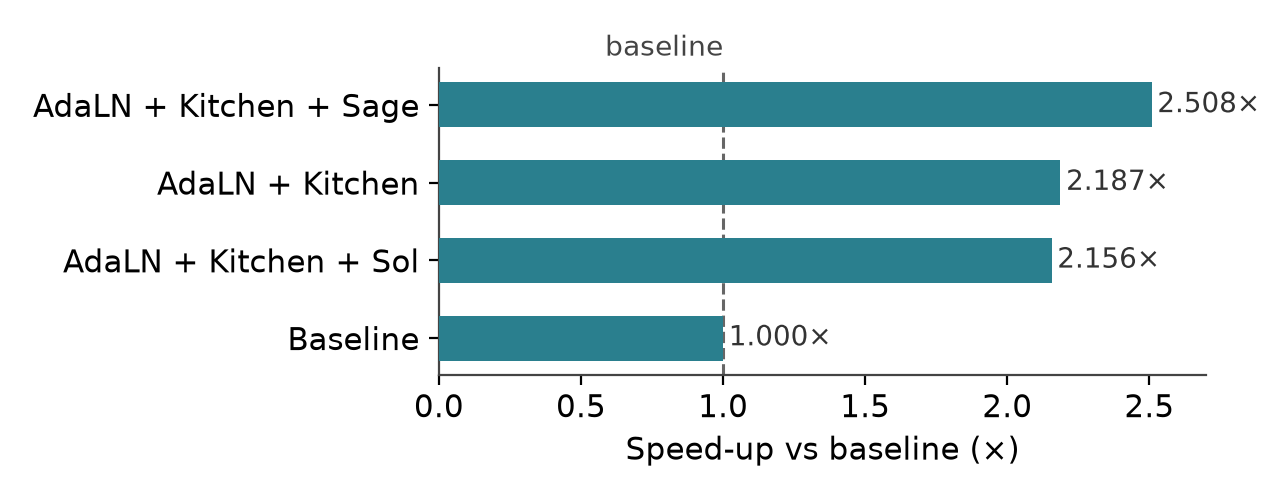
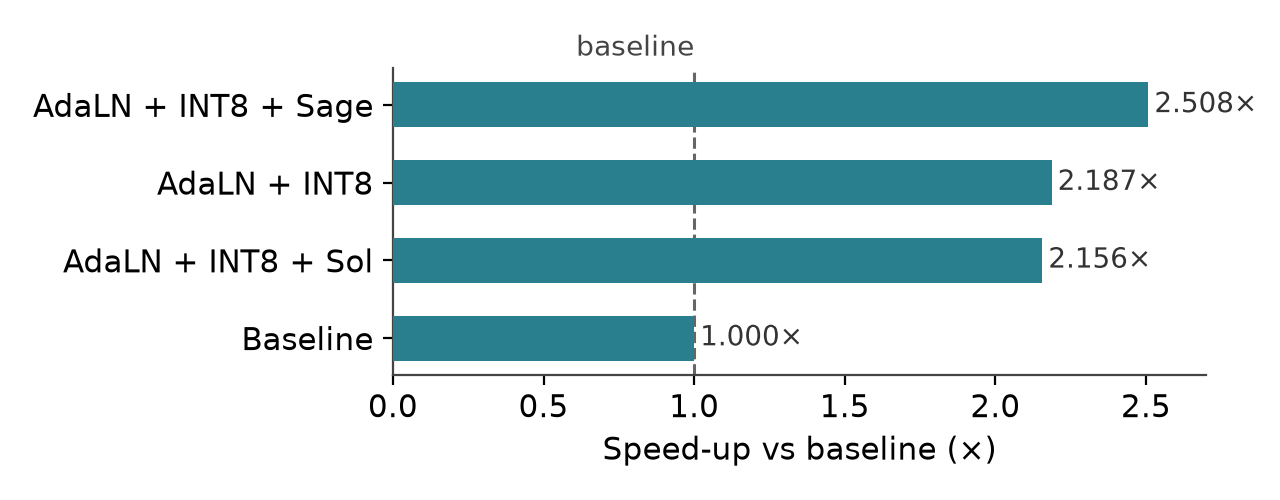
Blog MiniAcc: rename INT8 approach, drop ViDiT-Q mention, correct VBench-2 claim
- 'Kitchen INT8' renamed to 'INT8 via ComfyUI' across prose, tables, charts
  and the pipeline diagram (VLM-verified, no layout regressions)
- ViDiT-Q row, sentence and bibliography entry removed
- Limitations section corrected: we pinned and hash-verified the VBench v1
  scorer; no claim that VBench-2 cannot be verified the same way, only that
  we have not done that work

diff --git a/_posts/2026-09-17-miniacc.html b/_posts/2026-09-17-miniacc.html
@@ -71,7 +71,7 @@ generated_from: "_tex/posts/miniacc.tex"
 <td style="text-align: left;">bitwise-identical outputs</td>
 </tr>
 <tr class="even">
-<td style="text-align: left;">Kitchen INT8</td>
+<td style="text-align: left;">INT8 weights (ComfyUI)</td>
 <td style="text-align: left;">quantization</td>
 <td style="text-align: left;">1.881<span class="math inline">\(\times\)</span></td>
 <td style="text-align: left;">passed; single-run caveat</td>
@@ -83,42 +83,36 @@ generated_from: "_tex/posts/miniacc.tex"
 <td style="text-align: left;">small changes</td>
 </tr>
 <tr class="even">
-<td style="text-align: left;">ViDiT-Q</td>
-<td style="text-align: left;">quantization</td>
-<td style="text-align: left;">—</td>
-<td style="text-align: left;">blocked before admission</td>
-</tr>
-<tr class="odd">
 <td style="text-align: left;">Sol</td>
 <td style="text-align: left;">sparse attention</td>
 <td style="text-align: left;">0.990<span class="math inline">\(\times\)</span></td>
 <td style="text-align: left;">near-neutral; correctness gate failed</td>
 </tr>
-<tr class="even">
+<tr class="odd">
 <td style="text-align: left;">FFN token merge</td>
 <td style="text-align: left;">token reduction</td>
 <td style="text-align: left;">0.993<span class="math inline">\(\times\)</span></td>
 <td style="text-align: left;">severe loss</td>
 </tr>
-<tr class="odd">
+<tr class="even">
 <td style="text-align: left;">Query merge</td>
 <td style="text-align: left;">token reduction</td>
 <td style="text-align: left;">0.995<span class="math inline">\(\times\)</span></td>
 <td style="text-align: left;">severe loss (<span class="math inline">\(-\)</span>24.7 overall)</td>
 </tr>
-<tr class="even">
+<tr class="odd">
 <td style="text-align: left;">Heun</td>
 <td style="text-align: left;">solver</td>
 <td style="text-align: left;">0.994<span class="math inline">\(\times\)</span></td>
 <td style="text-align: left;">severe loss (<span class="math inline">\(-\)</span>28.0 overall)</td>
 </tr>
-<tr class="odd">
+<tr class="even">
 <td style="text-align: left;">Cache-DiT</td>
 <td style="text-align: left;">memory/cache</td>
 <td style="text-align: left;">—</td>
 <td style="text-align: left;">never fit our memory floor</td>
 </tr>
-<tr class="even">
+<tr class="odd">
 <td style="text-align: left;">SageAttention</td>
 <td style="text-align: left;">kernel</td>
 <td style="text-align: left;">0.998<span class="math inline">\(\times\)</span></td>
@@ -127,7 +121,7 @@ generated_from: "_tex/posts/miniacc.tex"
 </tbody>
 </table>
 </div>
-<p>A few of these deserve a sentence each. AdaLN fusion precomputes small per-layer conditioning values once instead of recomputing them on every pass, and it was the cleanest win: the outputs were bit-for-bit identical to baseline while running 37% faster. Kitchen INT8 (from the ComfyUI ecosystem <span class="citation" data-cites="comfyui">(<a href="#ref-comfyui" role="doc-biblioref">comfyanonymous and ComfyOrg contributors 2025</a>)</span>) stores the weights as 8-bit integers, halving the bytes that travel to the GPU, and it nearly doubled the speed. On the other side, both token-reduction methods <span class="citation" data-cites="bolya2023tome">(<a href="#ref-bolya2023tome" role="doc-biblioref">Bolya et al. 2023</a>)</span> and the higher-order solver <span class="citation" data-cites="hairer1993ode">(<a href="#ref-hairer1993ode" role="doc-biblioref">Hairer, Nørsett, and Wanner 1993</a>)</span> destroyed quality, which is what you should expect once you understand the LightX2V box above: the model was distilled for one exact recipe, and these methods change the recipe. ViDiT-Q never made it into the model at all. Its 8-bit building blocks worked in isolation, but the official fused quantiser <span class="citation" data-cites="zhao2025viditq">(<a href="#ref-zhao2025viditq" role="doc-biblioref">Zhao et al. 2025</a>)</span> disagreed with our reference on real inputs and the full integration had too many gaps to admit honestly. Cache-DiT <span class="citation" data-cites="cachedit">(<a href="#ref-cachedit" role="doc-biblioref">Vipshop Cache-DiT contributors 2025</a>)</span> simply never fit in our memory budget.</p>
+<p>A few of these deserve a sentence each. AdaLN fusion precomputes small per-layer conditioning values once instead of recomputing them on every pass, and it was the cleanest win: the outputs were bit-for-bit identical to baseline while running 37% faster. The INT8 weight quantiser from the ComfyUI ecosystem <span class="citation" data-cites="comfyui">(<a href="#ref-comfyui" role="doc-biblioref">comfyanonymous and ComfyOrg contributors 2025</a>)</span> stores the weights as 8-bit integers, halving the bytes that travel to the GPU, and it nearly doubled the speed. On the other side, both token-reduction methods <span class="citation" data-cites="bolya2023tome">(<a href="#ref-bolya2023tome" role="doc-biblioref">Bolya et al. 2023</a>)</span> and the higher-order solver <span class="citation" data-cites="hairer1993ode">(<a href="#ref-hairer1993ode" role="doc-biblioref">Hairer, Nørsett, and Wanner 1993</a>)</span> destroyed quality, which is what you should expect once you understand the LightX2V box above: the model was distilled for one exact recipe, and these methods change the recipe. Cache-DiT <span class="citation" data-cites="cachedit">(<a href="#ref-cachedit" role="doc-biblioref">Vipshop Cache-DiT contributors 2025</a>)</span> simply never fit in our memory budget.</p>
 <details class="takeaway-box" open>
 <summary><span>What is Sol attention?</span><span class="takeaway-toggle" aria-hidden="true"></span></summary>
 <div class="takeaway-content"><p>Sol <span class="citation" data-cites="li2026solattn">(<a href="#ref-li2026solattn" role="doc-biblioref">Li et al. 2026</a>)</span> is a sparse-attention method. Attention normally compares every token with every other token, which is expensive at 37 thousand tokens <span class="citation" data-cites="dao2022flashattention">(<a href="#ref-dao2022flashattention" role="doc-biblioref">Dao et al. 2022</a>)</span>. Sol instead picks a small set of promising token pairs per head and only computes those, in our case about 13.5% of all pairs, then adds a correction term for accuracy. Sparse attention is attractive on paper, but two things went wrong for us: the correction machinery cost more than the pairs it saved, and on real model inputs its numbers failed our correctness checks.</p></div>
@@ -137,7 +131,7 @@ generated_from: "_tex/posts/miniacc.tex"
 <div class="takeaway-content"><p>SageAttention <span class="citation" data-cites="zhang2025sageattention">(<a href="#ref-zhang2025sageattention" role="doc-biblioref">Zhang et al. 2025</a>)</span> keeps the attention pattern dense but does the score computation in 8-bit integer arithmetic instead of 16-bit floating point. Integer math is cheaper per operation, and SageAttention is a proper compiled kernel, not a simulation. On its own in our pipeline it changed nothing measurable, because attention is only about a sixth of the request time.</p></div>
 </details>
 <h2 id="putting-the-winners-together">Putting the winners together</h2>
-<p>The two clear winners attacked different costs. AdaLN removed per-layer conditioning work, and Kitchen halved the weight traffic. Combining them was the natural next step, and it is also where the story gets interesting. Figure <a href="#fig:breakdown" data-reference-type="ref" data-reference="fig:breakdown">2</a> shows what happened to the anatomy of a request.</p>
+<p>The two clear winners attacked different costs. AdaLN removed per-layer conditioning work, and the 8-bit weights halved the weight traffic. Combining them was the natural next step, and it is also where the story gets interesting. Figure <a href="#fig:breakdown" data-reference-type="ref" data-reference="fig:breakdown">2</a> shows what happened to the anatomy of a request.</p>
 <figure id="fig:breakdown">
 <img src="/assets/images/blog/miniacc/chart-time-breakdown.png" />
 <figcaption>Where a request spends its time as the techniques are layered on. The denoising stage shrinks from 257 to 61 seconds; text encoding and decoding are untouched.</figcaption>
@@ -147,7 +141,7 @@ generated_from: "_tex/posts/miniacc.tex"
 <img src="/assets/images/blog/miniacc/chart-integrated.png" />
 <figcaption>The integrated configurations against baseline. The final default includes SageAttention; the Sol variant is shown for completeness.</figcaption>
 </figure>
-<p>Figure <a href="#fig:integrated" data-reference-type="ref" data-reference="fig:integrated">3</a> shows the final speed numbers. AdaLN and Kitchen together give 2.19<span class="math inline">\(\times\)</span>. Adding SageAttention on top reaches 2.51<span class="math inline">\(\times\)</span>, our default configuration. Adding Sol instead gives 2.16<span class="math inline">\(\times\)</span>.</p>
+<p>Figure <a href="#fig:integrated" data-reference-type="ref" data-reference="fig:integrated">3</a> shows the final speed numbers. AdaLN and the INT8 quantiser together give 2.19<span class="math inline">\(\times\)</span>. Adding SageAttention on top reaches 2.51<span class="math inline">\(\times\)</span>, our default configuration. Adding Sol instead gives 2.16<span class="math inline">\(\times\)</span>.</p>
 <figure id="fig:diagram">
 <img src="/assets/images/blog/miniacc/pipeline-diagram.png" />
 <figcaption>The serving pipeline and where each technique acts. The warm lane is the bottleneck: weights are copied from main memory to the GPU on every denoising pass.</figcaption>
@@ -207,7 +201,7 @@ generated_from: "_tex/posts/miniacc.tex"
 <img src="/assets/images/blog/miniacc/chart-quality-deltas.png" />
 <figcaption>The same deltas as a chart. Sage’s damage concentrates in overall consistency and imaging, and it is consistent across clips, not one outlier.</figcaption>
 </figure>
-<p>Sage’s cost is systematic. Overall consistency, which measures whether the video matches the prompt’s meaning, dropped on every eligible clip. Imaging quality, a sharpness-and-artifacts score, dropped on 14 of 16 clips. One plausible explanation is that 8-bit attention stacked on 8-bit weights nudges the distilled model off the trajectory it was trained for, but we have not proven that mechanism. Sol, by contrast, is quality-neutral and simply slower, so there is no reason to adopt it. Our default ships with Sage because the speed matters for our use, and the fidelity-first configuration (AdaLN and Kitchen without Sage) is one flag away for anyone who would rather keep baseline-level quality at 2.19<span class="math inline">\(\times\)</span>.</p>
+<p>Sage’s cost is systematic. Overall consistency, which measures whether the video matches the prompt’s meaning, dropped on every eligible clip. Imaging quality, a sharpness-and-artifacts score, dropped on 14 of 16 clips. One plausible explanation is that 8-bit attention stacked on 8-bit weights nudges the distilled model off the trajectory it was trained for, but we have not proven that mechanism. Sol, by contrast, is quality-neutral and simply slower, so there is no reason to adopt it. Our default ships with Sage because the speed matters for our use, and the fidelity-first configuration (AdaLN and INT8 without Sage) is one flag away for anyone who would rather keep baseline-level quality at 2.19<span class="math inline">\(\times\)</span>.</p>
 <p>Finally, here is what all of this looks like. Both clips use the same prompt, <em>“A person is squat”</em> (VBench prompt 0195, human action), and the same seed.</p>
 <p><strong>Baseline serving:</strong></p>
 <figure>
@@ -220,7 +214,7 @@ generated_from: "_tex/posts/miniacc.tex"
 <figcaption>The integrated pipeline. Same prompt and seed.</figcaption>
 </figure>
 <h2 id="limitations-and-what-we-would-do-next">Limitations and what we would do next</h2>
-<p>There are several honest caveats. Speed numbers come from single requests on one GPU, so treat them as indicative rather than universal. The quality study is solid on its own scale, but 16 clips and 4 overall-consistency clips are still small samples, and the Sage cost would benefit from a bigger sweep before anyone ships this. We assessed video quality only. The audio track is validated for presence and format but never scored, because we know no good paired metric for generated audio. We used the original VBench rather than VBench-2 for a boring but important reason: we could pin and hash-verify every file of the original benchmark’s scorer, which kept the whole evaluation reproducible. VBench-2 scores would not be comparable to ours anyway.</p>
+<p>There are several honest caveats. Speed numbers come from single requests on one GPU, so treat them as indicative rather than universal. The quality study is solid on its own scale, but 16 clips and 4 overall-consistency clips are still small samples, and the Sage cost would benefit from a bigger sweep before anyone ships this. We assessed video quality only. The audio track is validated for presence and format but never scored, because we know no good paired metric for generated audio. For scoring we pinned one specific VBench revision and hash-verified all seven of its scorer files before every run, so the scoring code is bit-for-bit reproducible. We did not run or verify VBench-2, so our numbers are not comparable to it. Nothing in principle stops a future pass from pinning and verifying VBench-2 the same way; we simply have not done that work.</p>
 <p>The most interesting direction is one we could not touch here, because it needs real training compute. Right now the 8-bit pieces are approximations bolted onto a model distilled for 16-bit arithmetic. With post-training resources, one could distil the model <em>into</em> the fast recipe, teaching it to expect 8-bit weights and 8-bit attention rather than tolerate them. That is the standard way to recover the quality cost, and it is also the only honest route we see to making sparse attention competitive: train the sparsity in rather than bolt it on.</p>
 <p>The code for the integrated pipeline, including the measured configurations and the demo clips, is on GitHub at <a href="https://github.com/TY-Yang3015/MiniAcc" target="_blank" rel="noopener noreferrer">TY-Yang3015/MiniAcc</a>.</p>
 <h2 class="unnumbered" id="bibliography">References</h2>
@@ -254,9 +248,6 @@ Vipshop Cache-DiT contributors. 2025. <span>“<span>Cache-DiT</span>: A Trainin
 </div>
 <div id="ref-zhang2025sageattention" class="csl-entry" role="listitem">
 Zhang, Jintao, Jia Wei, Pengle Zhang, Jun Zhu, and Jianfei Chen. 2025. <span>“<span>SageAttention</span>: Accurate 8-Bit Attention for Plug-and-Play Inference Acceleration.”</span> In <em>International Conference on Learning Representations</em>. <a href="https://arxiv.org/abs/2411.09958" target="_blank" rel="noopener noreferrer">https://arxiv.org/abs/2411.09958</a>.
-</div>
-<div id="ref-zhao2025viditq" class="csl-entry" role="listitem">
-Zhao, Tianchen, Tongcheng Fang, Haofeng Huang, Rui Wan, Widyadewi Soedarmadji, Enshu Liu, Shiyao Li, et al. 2025. <span>“<span>ViDiT-Q</span>: Efficient and Accurate Quantization of Diffusion Transformers for Image and Video Generation.”</span> In <em>International Conference on Learning Representations</em>.
 </div>
 <div id="ref-zheng2024sglang" class="csl-entry" role="listitem">
 Zheng, Lianmin, Liangsheng Yin, Zhiqiang Xie, Chuyue Sun, Jeff Huang, Cody Hao Yu, Shiyi Cao, et al. 2024. <span>“<span>SGLang</span>: Efficient Execution of Structured Language Model Programs.”</span> In <em>Advances in Neural Information Processing Systems</em>. <a href="https://arxiv.org/abs/2312.07104" target="_blank" rel="noopener noreferrer">https://arxiv.org/abs/2312.07104</a>.

diff --git a/_site/blog/2026/09/17/miniacc/index.html b/_site/blog/2026/09/17/miniacc/index.html
@@ -190,7 +190,7 @@
 <td style="text-align: left;">bitwise-identical outputs</td>
 </tr>
 <tr class="even">
-<td style="text-align: left;">Kitchen INT8</td>
+<td style="text-align: left;">INT8 weights (ComfyUI)</td>
 <td style="text-align: left;">quantization</td>
 <td style="text-align: left;">1.881<span class="math inline">\(\times\)</span></td>
 <td style="text-align: left;">passed; single-run caveat</td>
@@ -202,42 +202,36 @@
 <td style="text-align: left;">small changes</td>
 </tr>
 <tr class="even">
-<td style="text-align: left;">ViDiT-Q</td>
-<td style="text-align: left;">quantization</td>
-<td style="text-align: left;">—</td>
-<td style="text-align: left;">blocked before admission</td>
-</tr>
-<tr class="odd">
 <td style="text-align: left;">Sol</td>
 <td style="text-align: left;">sparse attention</td>
 <td style="text-align: left;">0.990<span class="math inline">\(\times\)</span></td>
 <td style="text-align: left;">near-neutral; correctness gate failed</td>
 </tr>
-<tr class="even">
+<tr class="odd">
 <td style="text-align: left;">FFN token merge</td>
 <td style="text-align: left;">token reduction</td>
 <td style="text-align: left;">0.993<span class="math inline">\(\times\)</span></td>
 <td style="text-align: left;">severe loss</td>
 </tr>
-<tr class="odd">
+<tr class="even">
 <td style="text-align: left;">Query merge</td>
 <td style="text-align: left;">token reduction</td>
 <td style="text-align: left;">0.995<span class="math inline">\(\times\)</span></td>
 <td style="text-align: left;">severe loss (<span class="math inline">\(-\)</span>24.7 overall)</td>
 </tr>
-<tr class="even">
+<tr class="odd">
 <td style="text-align: left;">Heun</td>
 <td style="text-align: left;">solver</td>
 <td style="text-align: left;">0.994<span class="math inline">\(\times\)</span></td>
 <td style="text-align: left;">severe loss (<span class="math inline">\(-\)</span>28.0 overall)</td>
 </tr>
-<tr class="odd">
+<tr class="even">
 <td style="text-align: left;">Cache-DiT</td>
 <td style="text-align: left;">memory/cache</td>
 <td style="text-align: left;">—</td>
 <td style="text-align: left;">never fit our memory floor</td>
 </tr>
-<tr class="even">
+<tr class="odd">
 <td style="text-align: left;">SageAttention</td>
 <td style="text-align: left;">kernel</td>
 <td style="text-align: left;">0.998<span class="math inline">\(\times\)</span></td>
@@ -246,7 +240,7 @@
 </tbody>
 </table>
 </div>
-<p>A few of these deserve a sentence each. AdaLN fusion precomputes small per-layer conditioning values once instead of recomputing them on every pass, and it was the cleanest win: the outputs were bit-for-bit identical to baseline while running 37% faster. Kitchen INT8 (from the ComfyUI ecosystem <span class="citation" data-cites="comfyui">(<a href="#ref-comfyui" role="doc-biblioref">comfyanonymous and ComfyOrg contributors 2025</a>)</span>) stores the weights as 8-bit integers, halving the bytes that travel to the GPU, and it nearly doubled the speed. On the other side, both token-reduction methods <span class="citation" data-cites="bolya2023tome">(<a href="#ref-bolya2023tome" role="doc-biblioref">Bolya et al. 2023</a>)</span> and the higher-order solver <span class="citation" data-cites="hairer1993ode">(<a href="#ref-hairer1993ode" role="doc-biblioref">Hairer, Nørsett, and Wanner 1993</a>)</span> destroyed quality, which is what you should expect once you understand the LightX2V box above: the model was distilled for one exact recipe, and these methods change the recipe. ViDiT-Q never made it into the model at all. Its 8-bit building blocks worked in isolation, but the official fused quantiser <span class="citation" data-cites="zhao2025viditq">(<a href="#ref-zhao2025viditq" role="doc-biblioref">Zhao et al. 2025</a>)</span> disagreed with our reference on real inputs and the full integration had too many gaps to admit honestly. Cache-DiT <span class="citation" data-cites="cachedit">(<a href="#ref-cachedit" role="doc-biblioref">Vipshop Cache-DiT contributors 2025</a>)</span> simply never fit in our memory budget.</p>
+<p>A few of these deserve a sentence each. AdaLN fusion precomputes small per-layer conditioning values once instead of recomputing them on every pass, and it was the cleanest win: the outputs were bit-for-bit identical to baseline while running 37% faster. The INT8 weight quantiser from the ComfyUI ecosystem <span class="citation" data-cites="comfyui">(<a href="#ref-comfyui" role="doc-biblioref">comfyanonymous and ComfyOrg contributors 2025</a>)</span> stores the weights as 8-bit integers, halving the bytes that travel to the GPU, and it nearly doubled the speed. On the other side, both token-reduction methods <span class="citation" data-cites="bolya2023tome">(<a href="#ref-bolya2023tome" role="doc-biblioref">Bolya et al. 2023</a>)</span> and the higher-order solver <span class="citation" data-cites="hairer1993ode">(<a href="#ref-hairer1993ode" role="doc-biblioref">Hairer, Nørsett, and Wanner 1993</a>)</span> destroyed quality, which is what you should expect once you understand the LightX2V box above: the model was distilled for one exact recipe, and these methods change the recipe. Cache-DiT <span class="citation" data-cites="cachedit">(<a href="#ref-cachedit" role="doc-biblioref">Vipshop Cache-DiT contributors 2025</a>)</span> simply never fit in our memory budget.</p>
 <details class="takeaway-box" open>
 <summary><span>What is Sol attention?</span><span class="takeaway-toggle" aria-hidden="true"></span></summary>
 <div class="takeaway-content"><p>Sol <span class="citation" data-cites="li2026solattn">(<a href="#ref-li2026solattn" role="doc-biblioref">Li et al. 2026</a>)</span> is a sparse-attention method. Attention normally compares every token with every other token, which is expensive at 37 thousand tokens <span class="citation" data-cites="dao2022flashattention">(<a href="#ref-dao2022flashattention" role="doc-biblioref">Dao et al. 2022</a>)</span>. Sol instead picks a small set of promising token pairs per head and only computes those, in our case about 13.5% of all pairs, then adds a correction term for accuracy. Sparse attention is attractive on paper, but two things went wrong for us: the correction machinery cost more than the pairs it saved, and on real model inputs its numbers failed our correctness checks.</p></div>
@@ -256,7 +250,7 @@
 <div class="takeaway-content"><p>SageAttention <span class="citation" data-cites="zhang2025sageattention">(<a href="#ref-zhang2025sageattention" role="doc-biblioref">Zhang et al. 2025</a>)</span> keeps the attention pattern dense but does the score computation in 8-bit integer arithmetic instead of 16-bit floating point. Integer math is cheaper per operation, and SageAttention is a proper compiled kernel, not a simulation. On its own in our pipeline it changed nothing measurable, because attention is only about a sixth of the request time.</p></div>
 </details>
 <h2 id="putting-the-winners-together">Putting the winners together</h2>
-<p>The two clear winners attacked different costs. AdaLN removed per-layer conditioning work, and Kitchen halved the weight traffic. Combining them was the natural next step, and it is also where the story gets interesting. Figure <a href="#fig:breakdown" data-reference-type="ref" data-reference="fig:breakdown">2</a> shows what happened to the anatomy of a request.</p>
+<p>The two clear winners attacked different costs. AdaLN removed per-layer conditioning work, and the 8-bit weights halved the weight traffic. Combining them was the natural next step, and it is also where the story gets interesting. Figure <a href="#fig:breakdown" data-reference-type="ref" data-reference="fig:breakdown">2</a> shows what happened to the anatomy of a request.</p>
 <figure id="fig:breakdown">
 <img src="/assets/images/blog/miniacc/chart-time-breakdown.png" />
 <figcaption>Where a request spends its time as the techniques are layered on. The denoising stage shrinks from 257 to 61 seconds; text encoding and decoding are untouched.</figcaption>
@@ -266,7 +260,7 @@
 <img src="/assets/images/blog/miniacc/chart-integrated.png" />
 <figcaption>The integrated configurations against baseline. The final default includes SageAttention; the Sol variant is shown for completeness.</figcaption>
 </figure>
-<p>Figure <a href="#fig:integrated" data-reference-type="ref" data-reference="fig:integrated">3</a> shows the final speed numbers. AdaLN and Kitchen together give 2.19<span class="math inline">\(\times\)</span>. Adding SageAttention on top reaches 2.51<span class="math inline">\(\times\)</span>, our default configuration. Adding Sol instead gives 2.16<span class="math inline">\(\times\)</span>.</p>
+<p>Figure <a href="#fig:integrated" data-reference-type="ref" data-reference="fig:integrated">3</a> shows the final speed numbers. AdaLN and the INT8 quantiser together give 2.19<span class="math inline">\(\times\)</span>. Adding SageAttention on top reaches 2.51<span class="math inline">\(\times\)</span>, our default configuration. Adding Sol instead gives 2.16<span class="math inline">\(\times\)</span>.</p>
 <figure id="fig:diagram">
 <img src="/assets/images/blog/miniacc/pipeline-diagram.png" />
 <figcaption>The serving pipeline and where each technique acts. The warm lane is the bottleneck: weights are copied from main memory to the GPU on every denoising pass.</figcaption>
@@ -326,7 +320,7 @@
 <img src="/assets/images/blog/miniacc/chart-quality-deltas.png" />
 <figcaption>The same deltas as a chart. Sage’s damage concentrates in overall consistency and imaging, and it is consistent across clips, not one outlier.</figcaption>
 </figure>
-<p>Sage’s cost is systematic. Overall consistency, which measures whether the video matches the prompt’s meaning, dropped on every eligible clip. Imaging quality, a sharpness-and-artifacts score, dropped on 14 of 16 clips. One plausible explanation is that 8-bit attention stacked on 8-bit weights nudges the distilled model off the trajectory it was trained for, but we have not proven that mechanism. Sol, by contrast, is quality-neutral and simply slower, so there is no reason to adopt it. Our default ships with Sage because the speed matters for our use, and the fidelity-first configuration (AdaLN and Kitchen without Sage) is one flag away for anyone who would rather keep baseline-level quality at 2.19<span class="math inline">\(\times\)</span>.</p>
+<p>Sage’s cost is systematic. Overall consistency, which measures whether the video matches the prompt’s meaning, dropped on every eligible clip. Imaging quality, a sharpness-and-artifacts score, dropped on 14 of 16 clips. One plausible explanation is that 8-bit attention stacked on 8-bit weights nudges the distilled model off the trajectory it was trained for, but we have not proven that mechanism. Sol, by contrast, is quality-neutral and simply slower, so there is no reason to adopt it. Our default ships with Sage because the speed matters for our use, and the fidelity-first configuration (AdaLN and INT8 without Sage) is one flag away for anyone who would rather keep baseline-level quality at 2.19<span class="math inline">\(\times\)</span>.</p>
 <p>Finally, here is what all of this looks like. Both clips use the same prompt, <em>“A person is squat”</em> (VBench prompt 0195, human action), and the same seed.</p>
 <p><strong>Baseline serving:</strong></p>
 <figure>
@@ -339,7 +333,7 @@
 <figcaption>The integrated pipeline. Same prompt and seed.</figcaption>
 </figure>
 <h2 id="limitations-and-what-we-would-do-next">Limitations and what we would do next</h2>
-<p>There are several honest caveats. Speed numbers come from single requests on one GPU, so treat them as indicative rather than universal. The quality study is solid on its own scale, but 16 clips and 4 overall-consistency clips are still small samples, and the Sage cost would benefit from a bigger sweep before anyone ships this. We assessed video quality only. The audio track is validated for presence and format but never scored, because we know no good paired metric for generated audio. We used the original VBench rather than VBench-2 for a boring but important reason: we could pin and hash-verify every file of the original benchmark’s scorer, which kept the whole evaluation reproducible. VBench-2 scores would not be comparable to ours anyway.</p>
+<p>There are several honest caveats. Speed numbers come from single requests on one GPU, so treat them as indicative rather than universal. The quality study is solid on its own scale, but 16 clips and 4 overall-consistency clips are still small samples, and the Sage cost would benefit from a bigger sweep before anyone ships this. We assessed video quality only. The audio track is validated for presence and format but never scored, because we know no good paired metric for generated audio. For scoring we pinned one specific VBench revision and hash-verified all seven of its scorer files before every run, so the scoring code is bit-for-bit reproducible. We did not run or verify VBench-2, so our numbers are not comparable to it. Nothing in principle stops a future pass from pinning and verifying VBench-2 the same way; we simply have not done that work.</p>
 <p>The most interesting direction is one we could not touch here, because it needs real training compute. Right now the 8-bit pieces are approximations bolted onto a model distilled for 16-bit arithmetic. With post-training resources, one could distil the model <em>into</em> the fast recipe, teaching it to expect 8-bit weights and 8-bit attention rather than tolerate them. That is the standard way to recover the quality cost, and it is also the only honest route we see to making sparse attention competitive: train the sparsity in rather than bolt it on.</p>
 <p>The code for the integrated pipeline, including the measured configurations and the demo clips, is on GitHub at <a href="https://github.com/TY-Yang3015/MiniAcc" target="_blank" rel="noopener noreferrer">TY-Yang3015/MiniAcc</a>.</p>
 <h2 class="unnumbered" id="bibliography">References</h2>
@@ -373,9 +367,6 @@ Vipshop Cache-DiT contributors. 2025. <span>“<span>Cache-DiT</span>: A Trainin
 </div>
 <div id="ref-zhang2025sageattention" class="csl-entry" role="listitem">
 Zhang, Jintao, Jia Wei, Pengle Zhang, Jun Zhu, and Jianfei Chen. 2025. <span>“<span>SageAttention</span>: Accurate 8-Bit Attention for Plug-and-Play Inference Acceleration.”</span> In <em>International Conference on Learning Representations</em>. <a href="https://arxiv.org/abs/2411.09958" target="_blank" rel="noopener noreferrer">https://arxiv.org/abs/2411.09958</a>.
-</div>
-<div id="ref-zhao2025viditq" class="csl-entry" role="listitem">
-Zhao, Tianchen, Tongcheng Fang, Haofeng Huang, Rui Wan, Widyadewi Soedarmadji, Enshu Liu, Shiyao Li, et al. 2025. <span>“<span>ViDiT-Q</span>: Efficient and Accurate Quantization of Diffusion Transformers for Image and Video Generation.”</span> In <em>International Conference on Learning Representations</em>.
 </div>
 <div id="ref-zheng2024sglang" class="csl-entry" role="listitem">
 Zheng, Lianmin, Liangsheng Yin, Zhiqiang Xie, Chuyue Sun, Jeff Huang, Cody Hao Yu, Shiyi Cao, et al. 2024. <span>“<span>SGLang</span>: Efficient Execution of Structured Language Model Programs.”</span> In <em>Advances in Neural Information Processing Systems</em>. <a href="https://arxiv.org/abs/2312.07104" target="_blank" rel="noopener noreferrer">https://arxiv.org/abs/2312.07104</a>.

diff --git a/_tex/posts/miniacc.tex b/_tex/posts/miniacc.tex
@@ -44,9 +44,8 @@ We then worked through the literature, one technique at a time, keeping everythi
 Module & Category & Speedup & Quality\\
 \midrule
 AdaLN fusion & kernel/memory & 1.372$\times$ & bitwise-identical outputs\\
-Kitchen INT8 & quantization & 1.881$\times$ & passed; single-run caveat\\
+INT8 weights (ComfyUI) & quantization & 1.881$\times$ & passed; single-run caveat\\
 Compiler default & kernel & 0.970$\times$ & small changes\\
-ViDiT-Q & quantization & --- & blocked before admission\\
 Sol & sparse attention & 0.990$\times$ & near-neutral; correctness gate failed\\
 FFN token merge & token reduction & 0.993$\times$ & severe loss\\
 Query merge & token reduction & 0.995$\times$ & severe loss ($-$24.7 overall)\\
@@ -57,7 +56,7 @@ SageAttention & kernel & 0.998$\times$ & looked fine at 4 clips\\
 \end{tabular}
 \end{table}
 
-A few of these deserve a sentence each. AdaLN fusion precomputes small per-layer conditioning values once instead of recomputing them on every pass, and it was the cleanest win: the outputs were bit-for-bit identical to baseline while running 37\% faster. Kitchen INT8 (from the ComfyUI ecosystem \citep{comfyui}) stores the weights as 8-bit integers, halving the bytes that travel to the GPU, and it nearly doubled the speed. On the other side, both token-reduction methods \citep{bolya2023tome} and the higher-order solver \citep{hairer1993ode} destroyed quality, which is what you should expect once you understand the LightX2V box above: the model was distilled for one exact recipe, and these methods change the recipe. ViDiT-Q never made it into the model at all. Its 8-bit building blocks worked in isolation, but the official fused quantiser \citep{zhao2025viditq} disagreed with our reference on real inputs and the full integration had too many gaps to admit honestly. Cache-DiT \citep{cachedit} simply never fit in our memory budget.
+A few of these deserve a sentence each. AdaLN fusion precomputes small per-layer conditioning values once instead of recomputing them on every pass, and it was the cleanest win: the outputs were bit-for-bit identical to baseline while running 37\% faster. The INT8 weight quantiser from the ComfyUI ecosystem \citep{comfyui} stores the weights as 8-bit integers, halving the bytes that travel to the GPU, and it nearly doubled the speed. On the other side, both token-reduction methods \citep{bolya2023tome} and the higher-order solver \citep{hairer1993ode} destroyed quality, which is what you should expect once you understand the LightX2V box above: the model was distilled for one exact recipe, and these methods change the recipe. Cache-DiT \citep{cachedit} simply never fit in our memory budget.
 
 \begin{quote}
 \textbf{Box: What is Sol attention?} Sol \citep{li2026solattn} is a sparse-attention method. Attention normally compares every token with every other token, which is expensive at 37 thousand tokens \citep{dao2022flashattention}. Sol instead picks a small set of promising token pairs per head and only computes those, in our case about 13.5\% of all pairs, then adds a correction term for accuracy. Sparse attention is attractive on paper, but two things went wrong for us: the correction machinery cost more than the pairs it saved, and on real model inputs its numbers failed our correctness checks.
@@ -69,7 +68,7 @@ A few of these deserve a sentence each. AdaLN fusion precomputes small per-layer
 
 \section{Putting the winners together}
 
-The two clear winners attacked different costs. AdaLN removed per-layer conditioning work, and Kitchen halved the weight traffic. Combining them was the natural next step, and it is also where the story gets interesting. Figure~\ref{fig:breakdown} shows what happened to the anatomy of a request.
+The two clear winners attacked different costs. AdaLN removed per-layer conditioning work, and the 8-bit weights halved the weight traffic. Combining them was the natural next step, and it is also where the story gets interesting. Figure~\ref{fig:breakdown} shows what happened to the anatomy of a request.
 
 \begin{figure}[ht]
 \centering
@@ -85,7 +84,7 @@ With the copying cost cut down, attention went from a sixth of the request to ab
 \caption{The integrated configurations against baseline. The final default includes SageAttention; the Sol variant is shown for completeness.}\label{fig:integrated}
 \end{figure}
 
-Figure~\ref{fig:integrated} shows the final speed numbers. AdaLN and Kitchen together give 2.19$\times$. Adding SageAttention on top reaches 2.51$\times$, our default configuration. Adding Sol instead gives 2.16$\times$.
+Figure~\ref{fig:integrated} shows the final speed numbers. AdaLN and the INT8 quantiser together give 2.19$\times$. Adding SageAttention on top reaches 2.51$\times$, our default configuration. Adding Sol instead gives 2.16$\times$.
 
 \begin{figure}[ht]
 \centering
@@ -121,7 +120,7 @@ Overall consistency & $-$29.82 & $+$0.20\\
 \caption{The same deltas as a chart. Sage's damage concentrates in overall consistency and imaging, and it is consistent across clips, not one outlier.}\label{fig:qualitydeltas}
 \end{figure}
 
-Sage's cost is systematic. Overall consistency, which measures whether the video matches the prompt's meaning, dropped on every eligible clip. Imaging quality, a sharpness-and-artifacts score, dropped on 14 of 16 clips. One plausible explanation is that 8-bit attention stacked on 8-bit weights nudges the distilled model off the trajectory it was trained for, but we have not proven that mechanism. Sol, by contrast, is quality-neutral and simply slower, so there is no reason to adopt it. Our default ships with Sage because the speed matters for our use, and the fidelity-first configuration (AdaLN and Kitchen without Sage) is one flag away for anyone who would rather keep baseline-level quality at 2.19$\times$.
+Sage's cost is systematic. Overall consistency, which measures whether the video matches the prompt's meaning, dropped on every eligible clip. Imaging quality, a sharpness-and-artifacts score, dropped on 14 of 16 clips. One plausible explanation is that 8-bit attention stacked on 8-bit weights nudges the distilled model off the trajectory it was trained for, but we have not proven that mechanism. Sol, by contrast, is quality-neutral and simply slower, so there is no reason to adopt it. Our default ships with Sage because the speed matters for our use, and the fidelity-first configuration (AdaLN and INT8 without Sage) is one flag away for anyone who would rather keep baseline-level quality at 2.19$\times$.
 
 Finally, here is what all of this looks like. Both clips use the same prompt, \emph{``A person is squat''} (VBench prompt 0195, human action), and the same seed.
 
@@ -143,7 +142,7 @@ Finally, here is what all of this looks like. Both clips use the same prompt, \e
 
 \section{Limitations and what we would do next}
 
-There are several honest caveats. Speed numbers come from single requests on one GPU, so treat them as indicative rather than universal. The quality study is solid on its own scale, but 16 clips and 4 overall-consistency clips are still small samples, and the Sage cost would benefit from a bigger sweep before anyone ships this. We assessed video quality only. The audio track is validated for presence and format but never scored, because we know no good paired metric for generated audio. We used the original VBench rather than VBench-2 for a boring but important reason: we could pin and hash-verify every file of the original benchmark's scorer, which kept the whole evaluation reproducible. VBench-2 scores would not be comparable to ours anyway.
+There are several honest caveats. Speed numbers come from single requests on one GPU, so treat them as indicative rather than universal. The quality study is solid on its own scale, but 16 clips and 4 overall-consistency clips are still small samples, and the Sage cost would benefit from a bigger sweep before anyone ships this. We assessed video quality only. The audio track is validated for presence and format but never scored, because we know no good paired metric for generated audio. For scoring we pinned one specific VBench revision and hash-verified all seven of its scorer files before every run, so the scoring code is bit-for-bit reproducible. We did not run or verify VBench-2, so our numbers are not comparable to it. Nothing in principle stops a future pass from pinning and verifying VBench-2 the same way; we simply have not done that work.
 
 The most interesting direction is one we could not touch here, because it needs real training compute. Right now the 8-bit pieces are approximations bolted onto a model distilled for 16-bit arithmetic. With post-training resources, one could distil the model \emph{into} the fast recipe, teaching it to expect 8-bit weights and 8-bit attention rather than tolerate them. That is the standard way to recover the quality cost, and it is also the only honest route we see to making sparse attention competitive: train the sparsity in rather than bolt it on.
 
